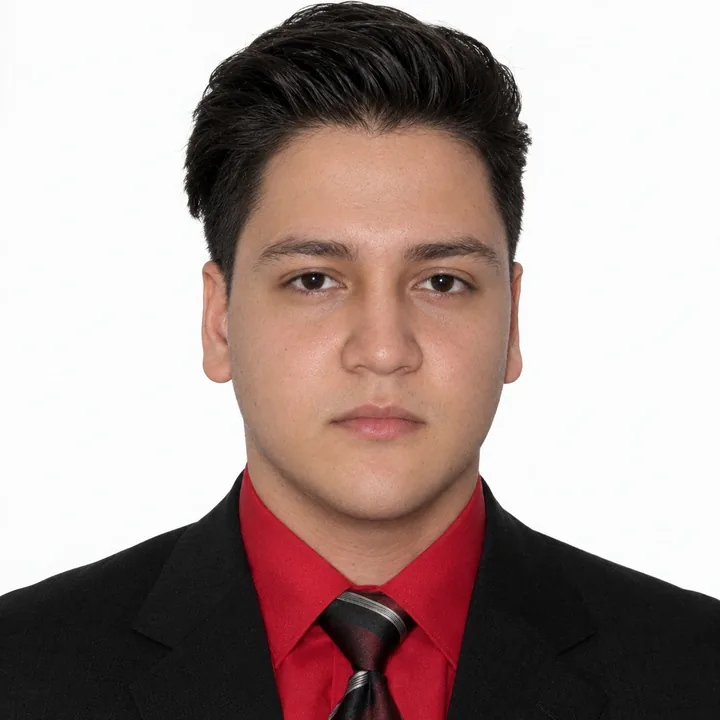
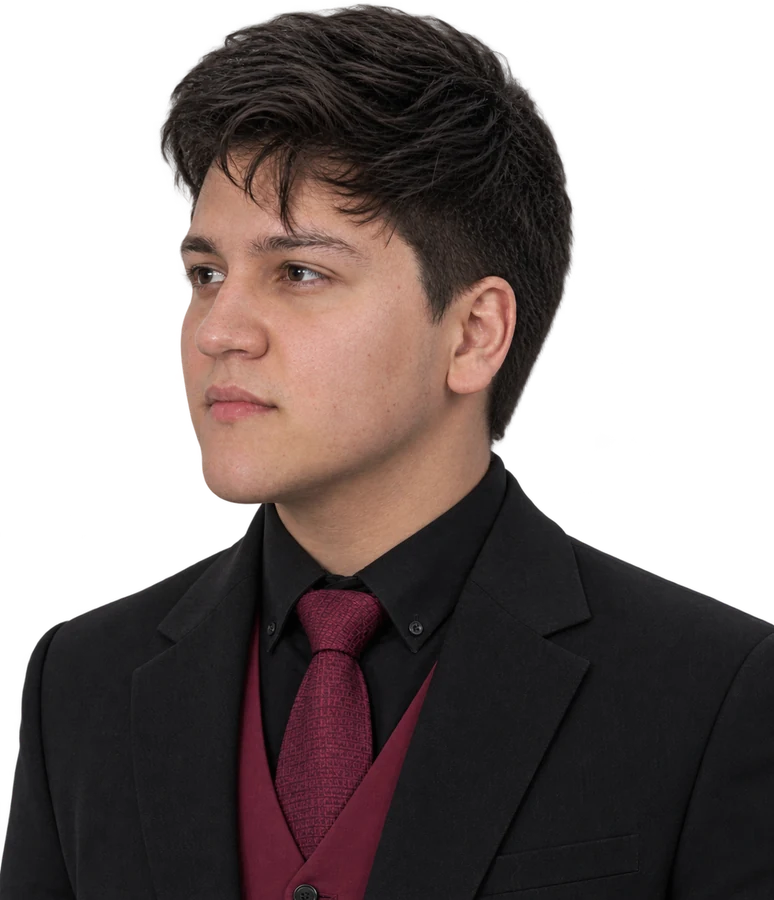
Big image to Hero

diff --git a/src/sections/Hero/PortraitCard/PortraitCard.jsx b/src/sections/Hero/PortraitCard/PortraitCard.jsx
@@ -8,10 +8,15 @@ import { EASE_EXPO } from '../../../lib/motion'
  * Recibe la ruta y el texto alternativo desde el padre (`profile.yaml` y
  * `Hero/content.<idioma>.md`).
  *
- * El retrato es una foto con fondo, así que va dentro de un marco redondeado
- * de cristal, con un resplandor rojo difuso detrás que lo separa de la página.
+ * El retrato es un PNG recortado, así que no lleva ni marco ni disco: la
+ * silueta va directamente sobre el fondo de la página, con un resplandor rojo
+ * difuso detrás que la separa sin dibujarle una forma alrededor.
  * Efectos: inclinación 3D siguiendo al cursor y resplandor que late.
  */
+
+// El recorte termina en seco a la altura del pecho; este degradado lo disuelve
+// contra la página en vez de dejar un borde recto.
+const FADE = 'linear-gradient(to bottom, #000 86%, transparent 100%)'
 
 export function PortraitCard({ src, alt, location, width, height }) {
   const prefersReducedMotion = useReducedMotion()
@@ -44,7 +49,7 @@ export function PortraitCard({ src, alt, location, width, height }) {
       // Alineado a la izquierda como el resto del hero, no centrado.
       // El desplazamiento vertical es un `translate`, no un margen: sube el
       // retrato sin alterar la altura de la fila ni mover nada más.
-      className="relative w-full max-w-[15rem] lg:max-w-[420px] lg:-translate-y-10"
+      className="relative w-full max-w-[17rem] lg:max-w-[520px] lg:-translate-y-8"
       style={{ perspective: 1200 }}
     >
       <motion.div
@@ -57,38 +62,32 @@ export function PortraitCard({ src, alt, location, width, height }) {
         }
         className="group relative aspect-square"
       >
-        {/* Resplandor ambiental detrás del marco */}
+        {/* Resplandor ambiental detrás de la silueta */}
         <span
           aria-hidden="true"
           className="animate-glow pointer-events-none absolute inset-[6%] rounded-full bg-accent/35 blur-[70px]"
         />
 
-        <div className="nc-card relative h-full w-full overflow-hidden rounded-[2rem] p-1.5">
-          <img
-            src={src}
-            alt={alt}
-            width={width}
-            height={height}
-            // Es el elemento más grande del primer viewport: se carga sin diferir.
-            loading="eager"
-            fetchPriority="high"
-            decoding="async"
-            draggable="false"
-            className="relative h-full w-full rounded-[1.625rem] object-cover transition-transform duration-500 ease-out select-none group-hover:scale-[1.03]"
-          />
-          {/* Velo inferior: asienta la foto y deja legible el chip de ubicación. */}
-          <span
-            aria-hidden="true"
-            className="pointer-events-none absolute inset-x-1.5 bottom-1.5 h-1/4 rounded-b-[1.625rem] bg-gradient-to-t from-canvas-deep/70 to-transparent"
-          />
-        </div>
+        <img
+          src={src}
+          alt={alt}
+          width={width}
+          height={height}
+          // Es el elemento más grande del primer viewport: se carga sin diferir.
+          loading="eager"
+          fetchPriority="high"
+          decoding="async"
+          draggable="false"
+          style={{ maskImage: FADE, WebkitMaskImage: FADE }}
+          className="relative h-full w-full object-contain object-bottom transition-transform duration-500 ease-out select-none group-hover:scale-[1.03]"
+        />
 
         {/* Chip de ubicación. Oculto en móvil, donde el retrato es pequeño y el
             chip lo tapaba; la ubicación sigue estando en contacto y el footer.
             `max-sm:hidden` en vez de `hidden sm:inline-flex` para ganarle al
             `inline-flex` de la propia clase. */}
         {location ? (
-          <span className="absolute bottom-4 left-4 inline-flex items-center gap-1.5 rounded-full border border-line bg-canvas-base/70 py-1 pr-2.5 pl-2 font-mono text-[0.625rem] tracking-wide text-ink backdrop-blur-md max-sm:hidden lg:text-[0.6875rem]">
+          <span className="absolute bottom-1 left-0 inline-flex items-center gap-1.5 rounded-full border border-line bg-canvas-base/70 py-1 pr-2.5 pl-2 font-mono text-[0.625rem] tracking-wide text-ink backdrop-blur-md max-sm:hidden lg:text-[0.6875rem]">
             <ICONS.location aria-hidden="true" className="h-3 w-3 text-accent-ink" />
             {location}
           </span>

diff --git a/src/sections/Hero/Hero.jsx b/src/sections/Hero/Hero.jsx
@@ -82,7 +82,7 @@ export default function Hero() {
               derecha. En móvil se apila y el retrato encabeza la sección.
               Las métricas quedan fuera de esta rejilla para poder ocupar todo
               el ancho, por debajo de ambas columnas. */}
-          <div className="grid items-center gap-10 lg:grid-cols-[minmax(0,1fr)_420px] lg:gap-14">
+          <div className="grid items-center gap-10 lg:grid-cols-[minmax(0,1fr)_520px] lg:gap-12">
           {/* Retrato. El parallax va en el contenedor externo y la animación de
               entrada en el interno: si compartieran el mismo `y`, uno anularía
               al otro. */}
